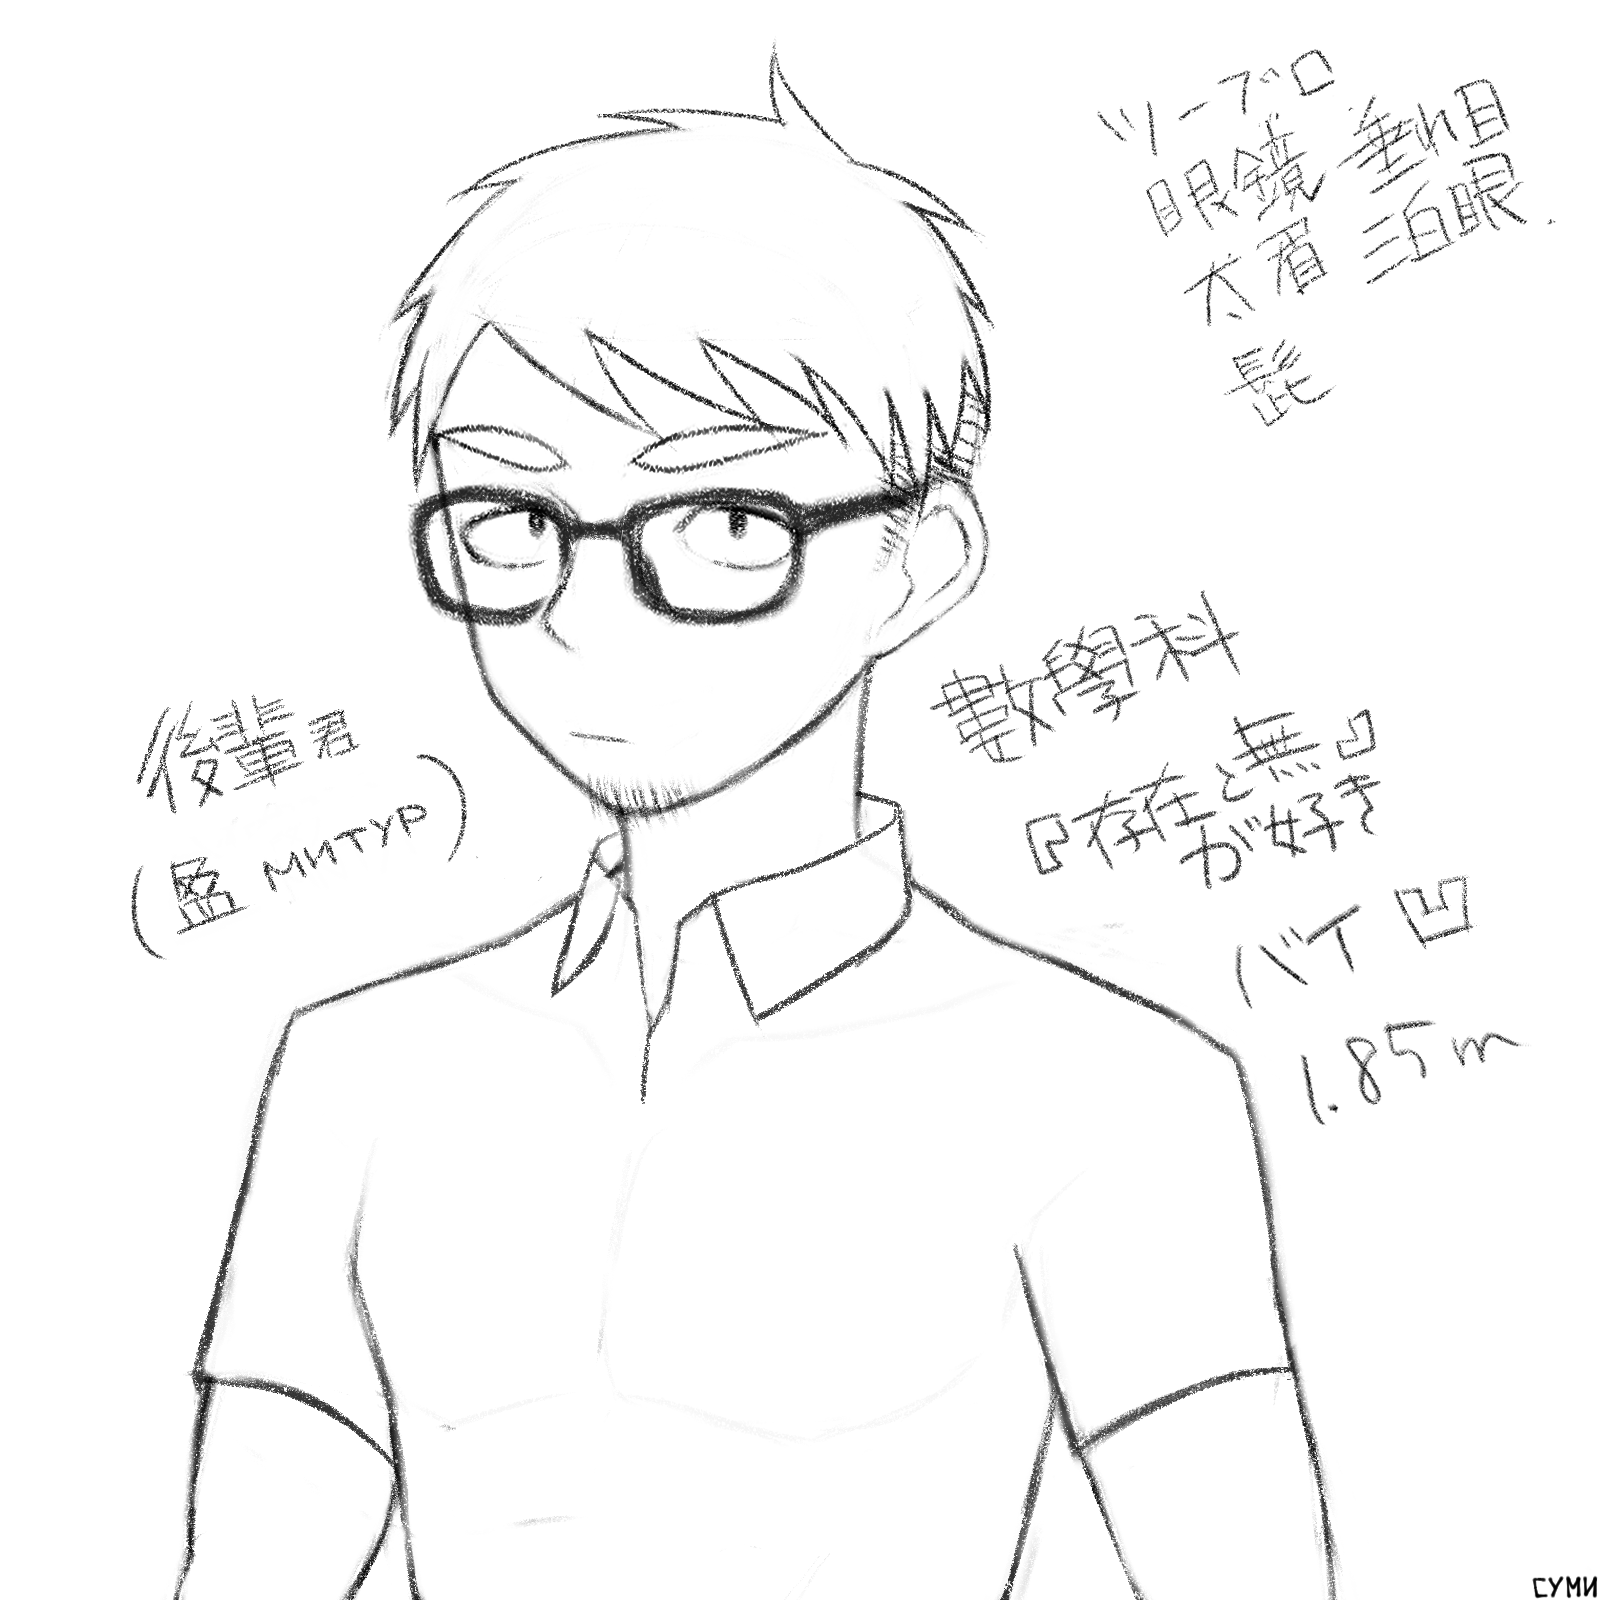
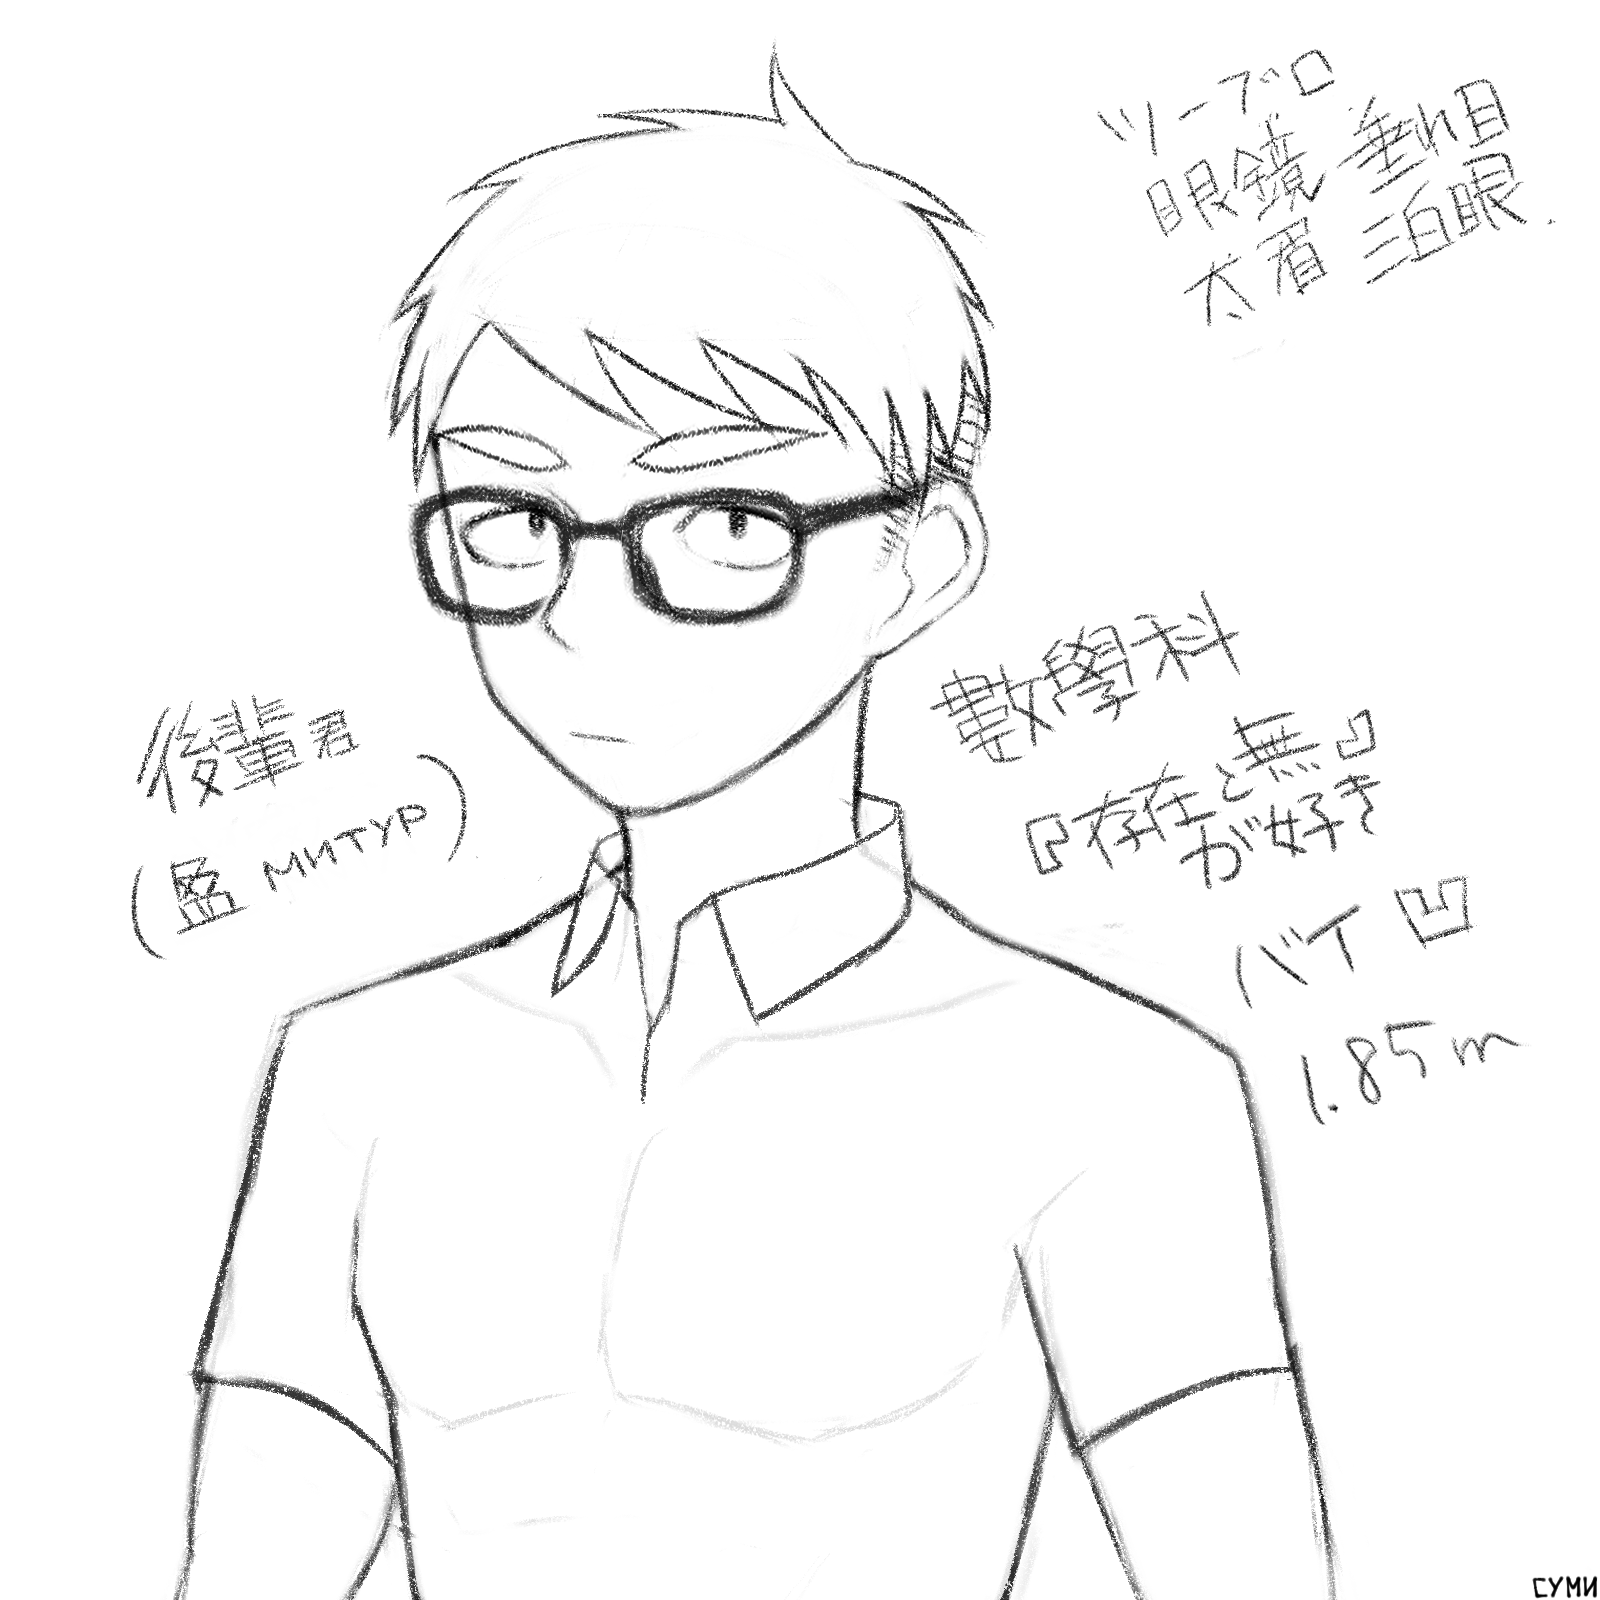
english simplified

diff --git a/docs/work/language/english/index.html b/docs/work/language/english/index.html
@@ -1,0 +1,188 @@
+<!DOCTYPE html>
+<html lang="en-GB">
+  <head><!-- Global site tag (gtag.js) - Google Analytics -->
+<script async src="https://www.googletagmanager.com/gtag/js?id=UA-104159380-5"></script>
+    <script>
+      window.dataLayer = window.dataLayer || [];
+      function gtag(){dataLayer.push(arguments);}
+      gtag('js', new Date());
+      gtag('config', 'UA-104159380-5');
+    </script>
+    <meta charset="UTF-8">
+    <link href="/style.css" rel="stylesheet">
+    <script src="/script.js"></script>
+    <!-- local files-->
+    <link href="style.css" rel="stylesheet">
+    <script src="script.js"></script>
+    <title>СУМИ / ENGLISH SIMPLIFIED (PSEUDO-ENGLISH)</title>
+    <meta name="twitter:site" content="@sumimq">
+    <meta name="twitter:title" content="СУМИ / ENGLISH SIMPLIFIED (PSEUDO-ENGLISH)">
+    <!-- meta(name="twitter:description", content=`${author.name.la}'s information.`)-->
+    <meta name="twitter:image" content="https://sumi.space/characters/suzuri/images/2019-10-25-small.png">
+    <meta name="twitter:card" content="summary">
+  </head>
+  <body>
+    <div id="nav-switch"></div>
+    <div class="center">
+      <nav>
+        <div id="nav-in">
+          <div id="logo"><a href="/"><img src="/images/sumi.png"></a></div>
+          <div id="datetime"></div>
+          <div class="my-div" id="menu">
+            <ul>
+              <li><a href="/">/</a></li>
+              <li><a href="/author">author</a></li>
+              <li><a href="/characters">character</a></li>
+              <li><a href="/favorite">favorite</a></li>
+              <!-- li: a(href="/thought") thought-->
+              <li><a href="/work">work</a></li>
+            </ul>
+            <div class="my-div" id="submenu">
+            </div>
+          </div>
+          <center><a class="twitter-share-button" href="https://twitter.com/share?ref_src=twsrc%5Etfw" data-show-count="true" data-via="sumimq">Tweet</a><script async src="https://platform.twitter.com/widgets.js" charset="utf-8"></script></center>
+        </div>
+      </nav>
+    </div>
+    <main>
+      <article>
+        <p>þis site use Google Analytics.</p>
+        <section id="englısh simplified (pseudo-english)">
+          <div class="tags">
+            <div class="tag">language=english</div>
+            <div class="tag">draft</div>
+          </div><a href="#englısh simplified (pseudo-english)">
+            <h1>englısh simplified (pseudo-english)</h1></a>
+          <section id="orthography">
+            <div class="tags">
+            </div><a href="#orthography">
+              <h1>orthography</h1></a>
+            <table>
+              <tr>
+                <th>standard</th>
+                <th>simplified</th>
+                <th></th>
+              </tr>
+              <tr>
+                <td>i, j</td>
+                <td>ı, ȷ</td>
+                <td>remove dots.</td>
+              </tr>
+              <tr>
+                <td>th</td>
+                <td>þ</td>
+                <td>if not from greek θ</td>
+              </tr>
+              <tr>
+                <td>wh</td>
+                <td>hw</td>
+                <td>in interrogatives</td>
+              </tr>
+            </table>
+          </section>
+          <section id="grammar">
+            <div class="tags">
+            </div><a href="#grammar">
+              <h1>grammar</h1></a>
+            <table>
+              <tr>
+                <th>standard</th>
+                <th>simplified</th>
+                <th></th>
+              </tr>
+              <tr>
+                <td><i>noun</i>s</td>
+                <td>(many | more than one) <i>noun</i></td>
+                <td>no plural form. just add quantifiers</td>
+              </tr>
+              <tr>
+                <td><i>noun</i>, an <i>noun</i>, the <i>noun</i></td>
+                <td><i>noun</i>, <i>noun</i>, <i>noun</i></td>
+                <td>no article</td>
+              </tr>
+              <tr>
+                <td><i>adj</i> <i>noun</i></td>
+                <td><i>noun</i> <i>adj</i></td>
+                <td></td>
+              </tr>
+              <tr></tr>
+              <tr>
+                <td>
+                  <ul>
+                    <li>go</li>
+                    <li>goes</li>
+                    <li>went</li>
+                    <li>have gone</li>
+                    <li>be going</li>
+                    <li>will have gone</li>
+                  </ul>
+                </td>
+                <td>
+                  <ul>
+                    <li>go</li>
+                    <li>go</li>
+                    <li>did go</li>
+                    <li>done go</li>
+                    <li>doing go</li>
+                    <li>will done go</li>
+                  </ul>
+                </td>
+                <td>no declension (optional)</td>
+              </tr>
+              <tr>
+                <td>do <i>noun</i> <i>verb</i> ?</td>
+                <td>(whether) <i>verb</i> <i>noun</i> ?</td>
+                <td></td>
+              </tr>
+              <tr>
+                <td><i>noun</i> do not <i>verb</i></td>
+                <td><i>noun</i> not <i>verb</i></td>
+                <td></td>
+              </tr>
+              <tr>
+                <td>you, he, she, it</td>
+                <td>þou, ve, ve, ve</td>
+                <td>no gender</td>
+              </tr>
+              <tr>
+                <td>
+                  <ul>
+                    <li>i, me, my, mine</li>
+                    <li>you, you, your, yous</li>
+                    <li>he, him, his, his</li>
+                  </ul>
+                </td>
+                <td>
+                  <ul>
+                    <li>(se) i, (þone) i, of i, of i</li>
+                    <li>(se) þou, (þone) þou, of þou, of þou</li>
+                    <li>(se) ve, (þone) ve, of ve, of ve</li>
+                  </ul>
+                </td>
+                <td>no declension.</td>
+              </tr>
+            </table>
+          </section>
+        </section>
+      </article>
+      <!--
+      +section("")
+        div(id="disqus_thread")
+        script.
+          var disqus_config = function () {
+            this.page.url = "http://sumi.space";
+            this.page.identifier = "sumi";
+          };
+          (function() { // DON'T EDIT BELOW THIS LINE
+          var d = document, s = d.createElement('script');
+          s.src = 'https://sumi-2.disqus.com/embed.js';
+          s.setAttribute('data-timestamp', +new Date());
+          (d.head || d.body).appendChild(s);
+          })();
+        noscript
+          | Please enable JavaScript to view the
+          a(href="https://disqus.com/?ref_noscript") comments powered by Disqus.
+      -->
+    </main>
+  </body>
+</html>

diff --git a/docs/characters/mitur/index.html b/docs/characters/mitur/index.html
@@ -71,7 +71,7 @@
               <li>言語：日本語・英語・ロシア語</li>
               <li>數學科の學部生</li>
               <li>身長：1.85m</li>
-              <li>體質量：68kg</li>
+              <li>體質量：75kg</li>
               <li>左手首にリストカット痕有り</li>
               <li>ピアス孔：右耳のrob（スズリに空けてもらった）</li>
               <li>髪色：黒</li>
@@ -111,7 +111,6 @@
               </li>
               <li>開發段階の爲、造形は定まらず資料は有りません。</li>
             </ul>
-            <!--p 以下、性的な物はmouse-overで表示されます。-->
             <div class="tile">
               <section id="2020-04-14">
                 <div class="tags">
@@ -123,8 +122,8 @@
                 <div class="tags">
                 </div><a href="#2020-05-31">
                   <h1>2020-05-31</h1></a>
-                <p>試案</p>
-                <!--<blockquote class="twitter-tweet" data-theme="dark"><p dir="ltr">完 <a href="https://t.co/sZA5QWL5K9">pic.twitter.com/sZA5QWL5K9</a></p>&mdash; СУМИ (@SumiMq) <a href="https://twitter.com/SumiMq/status/1266767231813214208?ref_src=twsrc%5Etfw">May 30, 2020</a></blockquote> <script async src="https://platform.twitter.com/widgets.js" charset="utf-8"></script>--><img src="image/2020-05-25.png" width="400">
+                <p>試案。髭は無い方が標準。</p>
+                <!--<blockquote class="twitter-tweet" data-theme="dark"><p dir="ltr">完 <a href="https://t.co/sZA5QWL5K9">pic.twitter.com/sZA5QWL5K9</a></p>&mdash; СУМИ (@SumiMq) <a href="https://twitter.com/SumiMq/status/1266767231813214208?ref_src=twsrc%5Etfw">May 30, 2020</a></blockquote> <script async src="https://platform.twitter.com/widgets.js" charset="utf-8"></script>--><img src="image/2020-05-25.png" width="400"><img src="image/2020-05-25'.png" width="400">
               </section>
             </div>
           </section>

diff --git a/docs/script.js b/docs/script.js
@@ -20,6 +20,13 @@ document.addEventListener("DOMContentLoaded", async () => {
   if(subsections.length > 0) {
     const ul = document.createElement("ul");
 
+    const aParent = document.createElement("a");
+    aParent.setAttribute("href", "../");
+    aParent.append(document.createTextNode("../"));
+    const liParent = document.createElement("li");
+    liParent.append(aParent);
+    ul.append(liParent);
+
     const a = document.createElement("a");
     a.setAttribute("href", "#");
     a.append(document.createTextNode("/"));

diff --git a/src/script.js b/src/script.js
@@ -20,6 +20,13 @@ document.addEventListener("DOMContentLoaded", async () => {
   if(subsections.length > 0) {
     const ul = document.createElement("ul");
 
+    const aParent = document.createElement("a");
+    aParent.setAttribute("href", "../");
+    aParent.append(document.createTextNode("../"));
+    const liParent = document.createElement("li");
+    liParent.append(aParent);
+    ul.append(liParent);
+
     const a = document.createElement("a");
     a.setAttribute("href", "#");
     a.append(document.createTextNode("/"));

diff --git a/docs/work/language/interslavic/replace.js b/docs/work/language/interslavic/replace.js
@@ -31,7 +31,7 @@ export default (s, up, cy) => {
     , [/ẽ/g, "ѧ"]
     , [/õ/g, "ѫ"]
     , [/ě/g, "ѣ"]
-    , [/ꜵ/g, "а"]
+    , [/ꜵ/g, "а̊"]
 
     , [/ť/g, "щ"]
     , [/ď/g, "җ"]
@@ -65,7 +65,7 @@ export default (s, up, cy) => {
     , [/t/g, "т"]
     , [/u/g, "у"]
     , [/w/g, "в"]
-    , [/x/g, "ж"]
+    , [/x/g, "х"]
     , [/y/g, "ъ"] //ꙑ
     , [/z/g, "з"]
 

diff --git a/src/work/language/interslavic/replace.js b/src/work/language/interslavic/replace.js
@@ -31,7 +31,7 @@ export default (s, up, cy) => {
     , [/ẽ/g, "ѧ"]
     , [/õ/g, "ѫ"]
     , [/ě/g, "ѣ"]
-    , [/ꜵ/g, "а"]
+    , [/ꜵ/g, "а̊"]
 
     , [/ť/g, "щ"]
     , [/ď/g, "җ"]
@@ -65,7 +65,7 @@ export default (s, up, cy) => {
     , [/t/g, "т"]
     , [/u/g, "у"]
     , [/w/g, "в"]
-    , [/x/g, "ж"]
+    , [/x/g, "х"]
     , [/y/g, "ъ"] //ꙑ
     , [/z/g, "з"]
 
